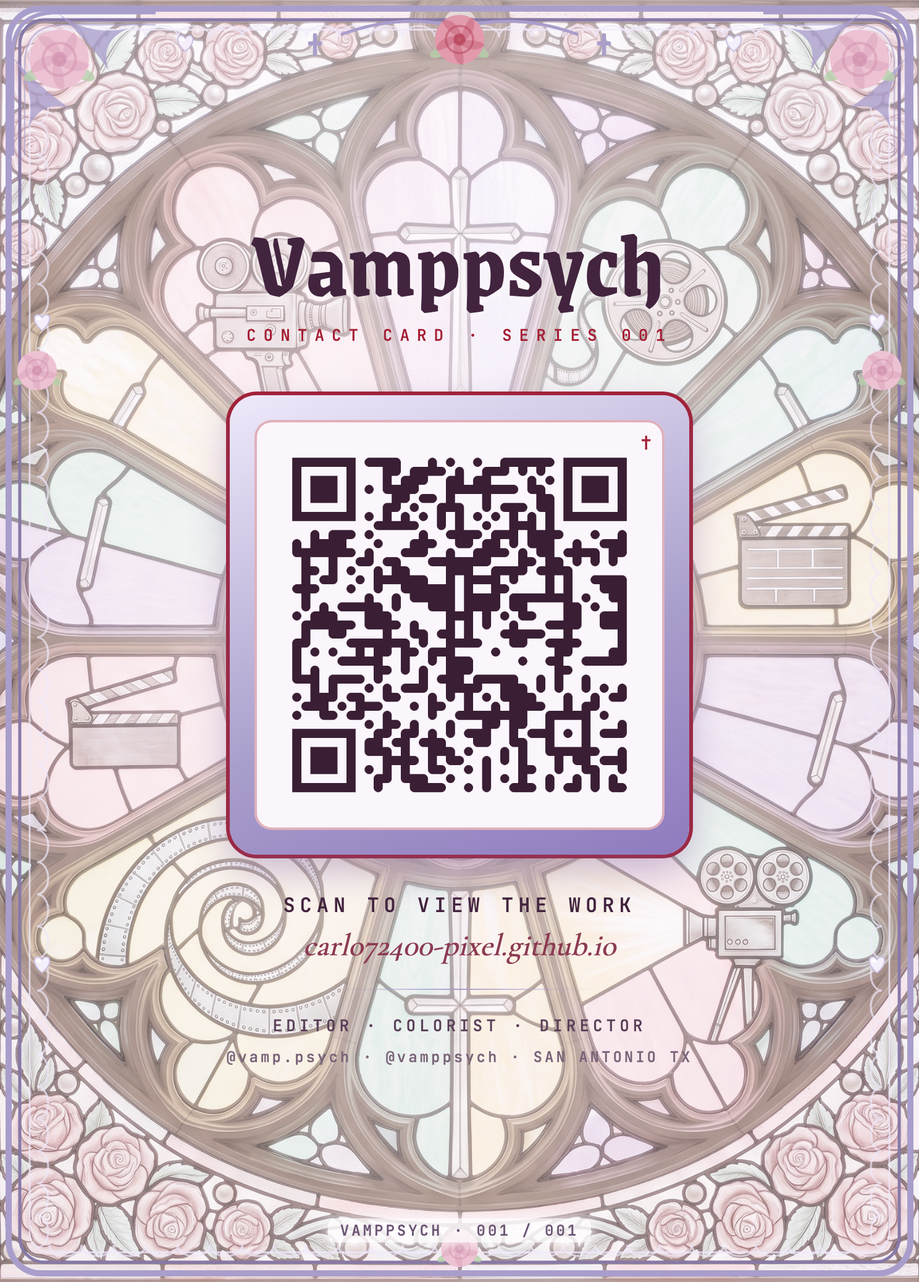
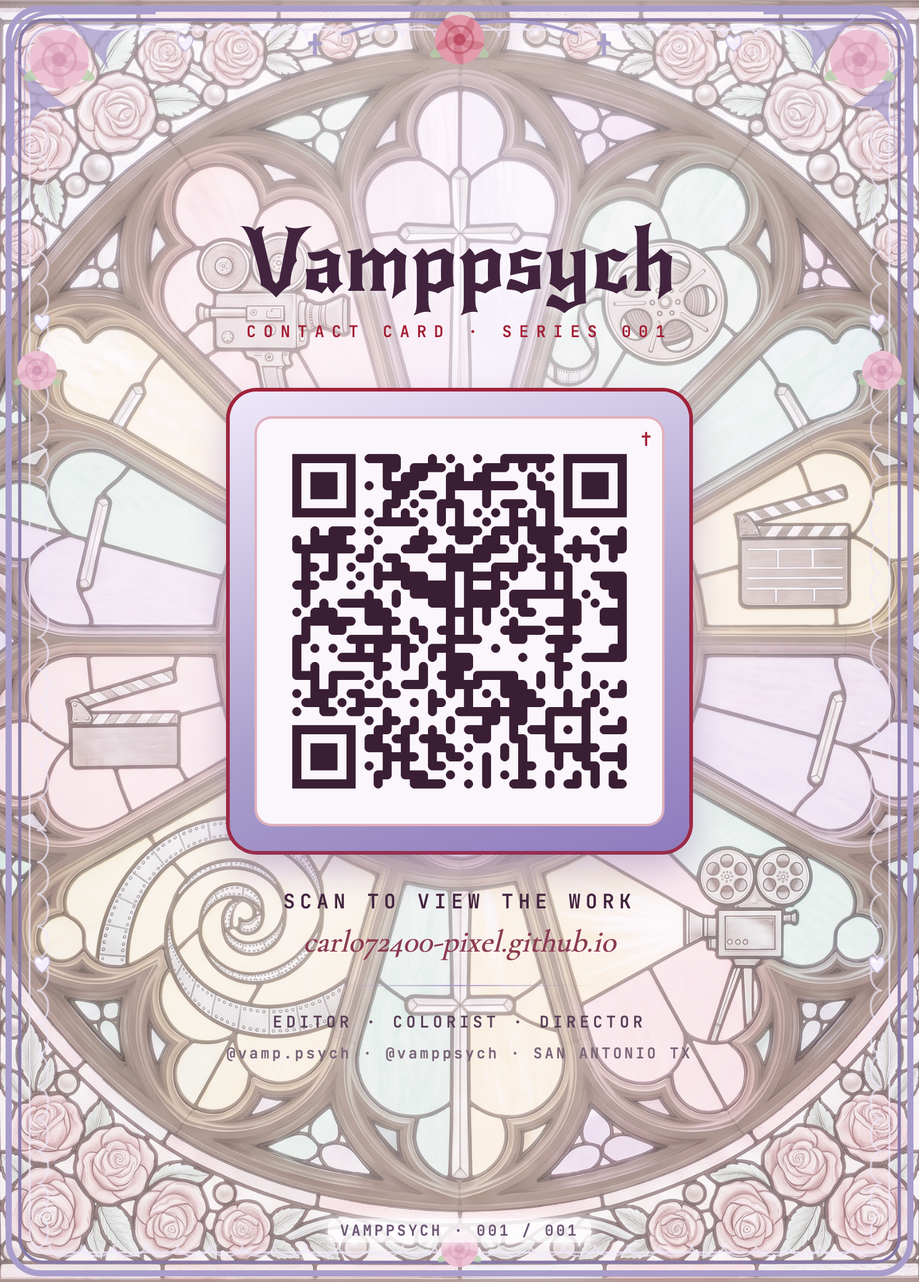
Blackletter -> New Rocker (his pick): Grenze's V read as a W
He caught the second one: Grenze Gotisch draws a hairline through the capital V's
counter, so it splits into two strokes and reads as W. First font read the V as a B, this
one reads it as a W.

So I stopped eyeballing and rendered V against W, B and U side by side across every free
gothic on Google Fonts. Only two survive with an unambiguous V: New Rocker and Metal
Mania. Everything else fails on the same letter -- Pirata One and Federant turn V into U,
Ewert into W, Jacquarda Bastarda is unreadable.

He picked Darkgone (Envato) as the reference this round, paid again like Fayte, so free
stand-in again. Showed him both survivors on the real card; he chose New Rocker -- it
keeps real lowercase so "Vamppsych" stays a wordmark instead of a metal-band logo. Metal
Mania was the closer match to Darkgone's heavy/angular brief and stays selectable via
BLACKLETTER=metal.

Font is now env-driven (_BL) instead of hardcoded, since crest/set px have to change per
font (different cap-heights). Verified both faces fit with no collision before shipping.
Applied to the printable card too. Every QR re-verified: 7/7 pass.

Changed region(s): [[0.2473, 0.1541, 0.7419, 0.8324], [0.5874, 0.7707, 0.711, 0.8324], [0.2473, 0.8015, 0.371, 0.8324]]

diff --git a/SITE_STATE.md b/SITE_STATE.md
@@ -16,17 +16,28 @@
 ## Register
 Pastel decoden / "kawaii AND professional." Ennaria pastels (blush, lilac, mint, baby blue, butter, peach) + silver chrome + white lace. Display font = Fraunces pushed to its Rogue-most axis (SOFT 100 / weight 640-680 / WONK 0). Body Inter, OSD JetBrains Mono. The real Kanye/Alamodome shot leads the hero full-bleed and regrades via the PP chip.
 
-**BLACKLETTER = Grenze Gotisch 700. NEVER UnifrakturMaguntia.** Its capital V and B are
-near-identical bulbous forms, so "Vamppsych" reads as "Bamppsych" — he caught this on the
-card back Jul 16 and called it tragic. He picked Fayte Blackletter Gothic
-(elements.envato.com/fayte-blackletter-gothic-QRR868C) but it is PAID ($16.50/mo Envato
-sub) and said to find a free one like it. Grenze Gotisch (Google Fonts) matches Fayte's
-brief — modern condensed display blackletter — and its V is unmistakable. Rejected after a
-V-vs-B render test: Pirata One (V becomes a U), UnifrakturCook (same V/B collision),
-Jacquard 24 (worse), Almendra Display (too light). Grenze is condensed, so bump ~8% when
-swapping off Unifraktur to hold the optical width. Swapped in all four card builds
-(contact-card/build_fullart_card.py + build_contact_card.py, card/build_front.py +
-build_back.py). If he ever downloads Fayte from Envato it is a one-line family swap.
+**BLACKLETTER = New Rocker (his pick, Jul 16).** The whole issue is the capital V in
+"Vamppsych" — it keeps turning into another letter, and he has caught it twice. Render V
+against W, B and U side by side before ever proposing a blackletter. Verdicts:
+- `UnifrakturMaguntia` — **V reads as B** ("Bamppsych"). His words: tragic. Never use.
+- `Grenze Gotisch` — a hairline splits the V's counter so it **reads as W**. He caught this
+  one too. Never use.
+- `Pirata One`, `Federant` — **V reads as U**.  `Ewert` — V reads as W.
+  `Jacquarda Bastarda 9` — V unreadable.  `Almendra Display` — too light to read as gothic.
+- **`New Rocker`** — clean unambiguous V, keeps real lowercase so the name stays a wordmark
+  rather than a metal-band logo. HIS PICK.
+- `Metal Mania` — also a clean V, heavy/angular/hardcore, renders small-caps. Runner-up,
+  kept selectable.
+
+He twice picked PAID Envato faces: Fayte (`fayte-blackletter-gothic-QRR868C`) then Darkgone
+(`darkgone-gothic-blackletter-font-8P5HBRT`), both $16.50/mo, and both times said to find a
+free one instead. If he ever buys one, drop the .otf in and wire a local `@font-face` — one
+line per build.
+
+Swap font via env: `BLACKLETTER=rocker|metal` on `contact-card/build_fullart_card.py`
+(see `_BL` at the top; crest/set px are per-font because cap-heights differ). Also applied
+by hand to `contact-card/build_contact_card.py` (legacy) and `card/build_front.py` +
+`build_back.py` (the printable card had the identical bug).
 
 ## Sections (nav order)
 INFO (Editor first + FIELD KIT camera cards) -> PHOTO MODE (concert stills + A/B grade slider) -> ARCHIVE (SA Current tapes incl. TAPE 04 lucha, STILLS PULL x10, LIT SESSIONS, EDITORIAL PORTRAIT WORK) -> PLAYBACK (VOLUME + 2 BTS, YouTube) -> FEED (2 IG reels + TikTok tile) -> RATES -> STANDBY footer.
